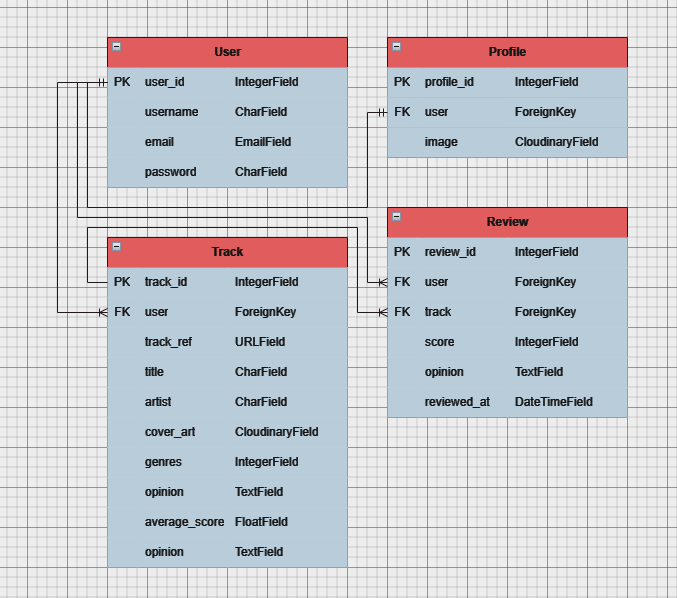
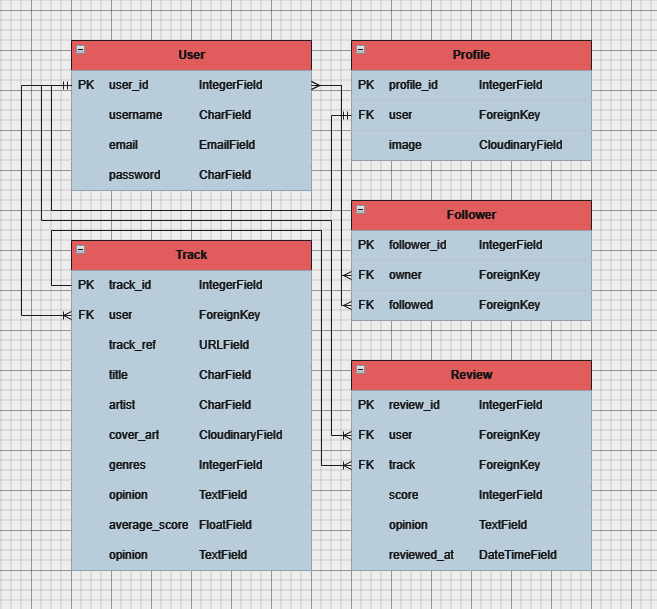
Add user stories to readme + update er diagram

diff --git a/README.md b/README.md
@@ -13,7 +13,73 @@
 
 ### User Stories
 
-### Wireframes
+#### EPIC: Profiles
+
+- US01 - Create Profile
+
+  - As a developer I can automatically create a corresponding profile for each new user so that every user has there own profile that belongs to them.
+
+- US02 - Edit Profile
+
+  - As a developer I can allow users to edit there own profiles so that every user can customize their identity within the application.
+
+- US03 - Delete Profile
+
+  - As a developer I can allow users to delete their profile so that a user that no longer wants to use Wavelength can remove their profile.
+
+- US04 - View Profiles
+
+  - As a developer I can allow users to view profiles so that users can interact with each other.
+
+#### EPIC: Followers
+
+- US05 - Follow Users
+
+  - As a developer I can allow users to follow other users so that users can tailor their feeds by following profiles that share content relevant to them.
+
+- US06 - Unfollow Users
+
+  - As a developer I can allow users to unfollow accounts they were previously following so that users can remove content from their feed that they no longer wish to interact with.
+
+#### EPIC: Tracks
+
+- US07 - Share Tracks
+
+  - As a developer I can let users create instances of the track model so that they can share music that they have been enjoying.
+
+- US08 - Edit Track
+
+  - As a developer I can allow users to edit the details of tracks they have shared so that they can fix any mistakes they may have made whilst creating the instance/reflect any opinion changes they have had about the track.
+
+- US09 - Delete Track
+
+  - As a developer I can allow users to delete tracks that they have shared so that users can remove tracks that the no longer want on their profile.
+
+- US10 - View Tracks (list view)
+
+  - As a developer I can display a list view of all shared tracks so that users can explore new music.
+
+- US11 - View Track (detail view)
+
+  - As a developer I can display a detailed view of an individual track so that users can read a track's reviews and add their own.
+
+#### EPIC: Reviews
+
+- US12 - Create Review
+
+  - As a developer I can allow users to review shared tracks so that they can share their opinion on the music.
+
+- US13 - Edit Review
+
+  - As a developer I can allow users to edit any review that they have created so that they can change their reviews if their opinions about the track change.
+
+- US14 - Delete Review
+
+  - As a developer I can allow users to delete any of their reviews so that they can remove them if they would like to.
+
+- US15 - View Reviews
+
+  - As a developer I can display all of the reviews for a track beneath it in the detailed view so that users can see what other users are thinking about a track.
 
 ### Entity-Relationship Diagram
 
